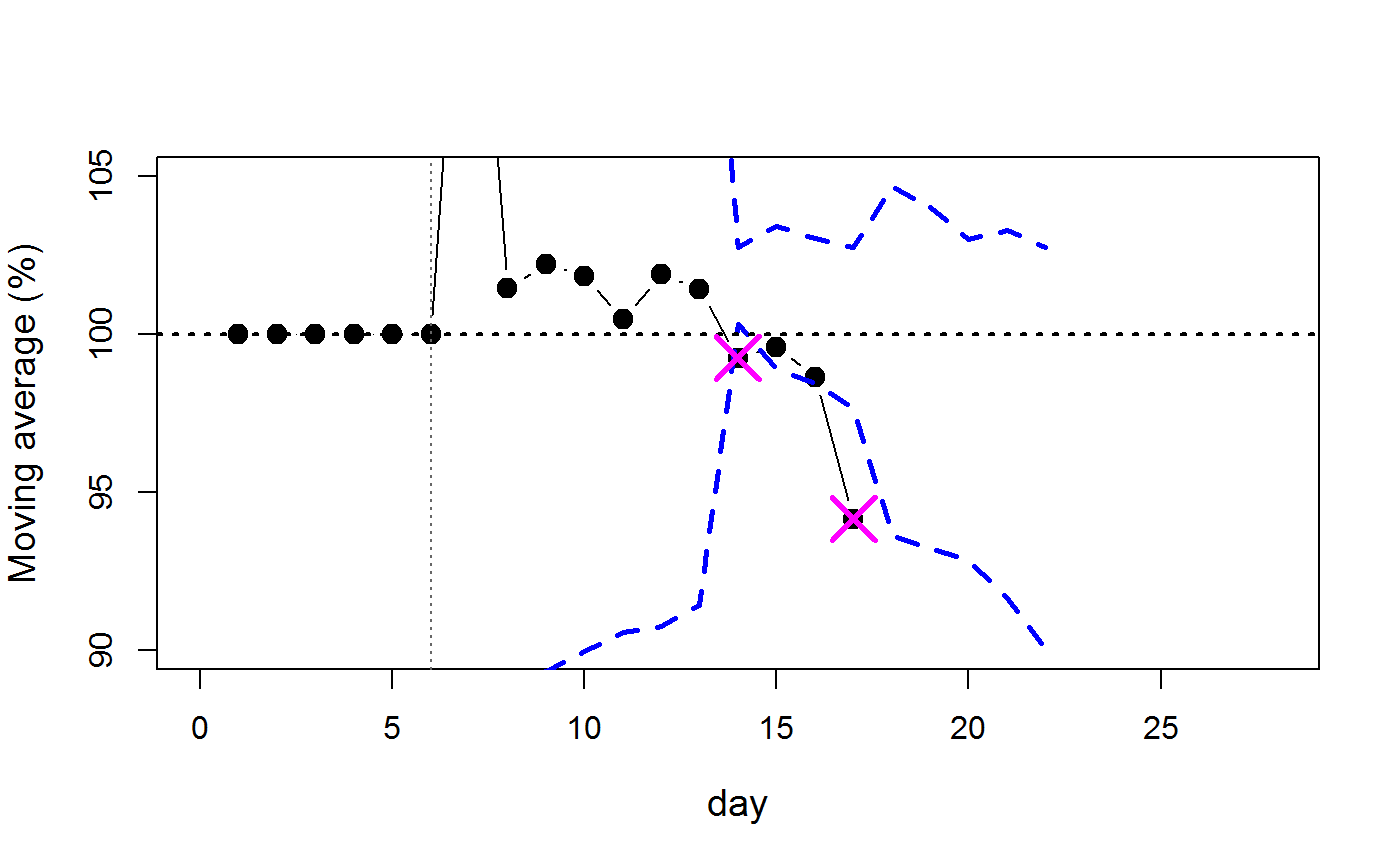
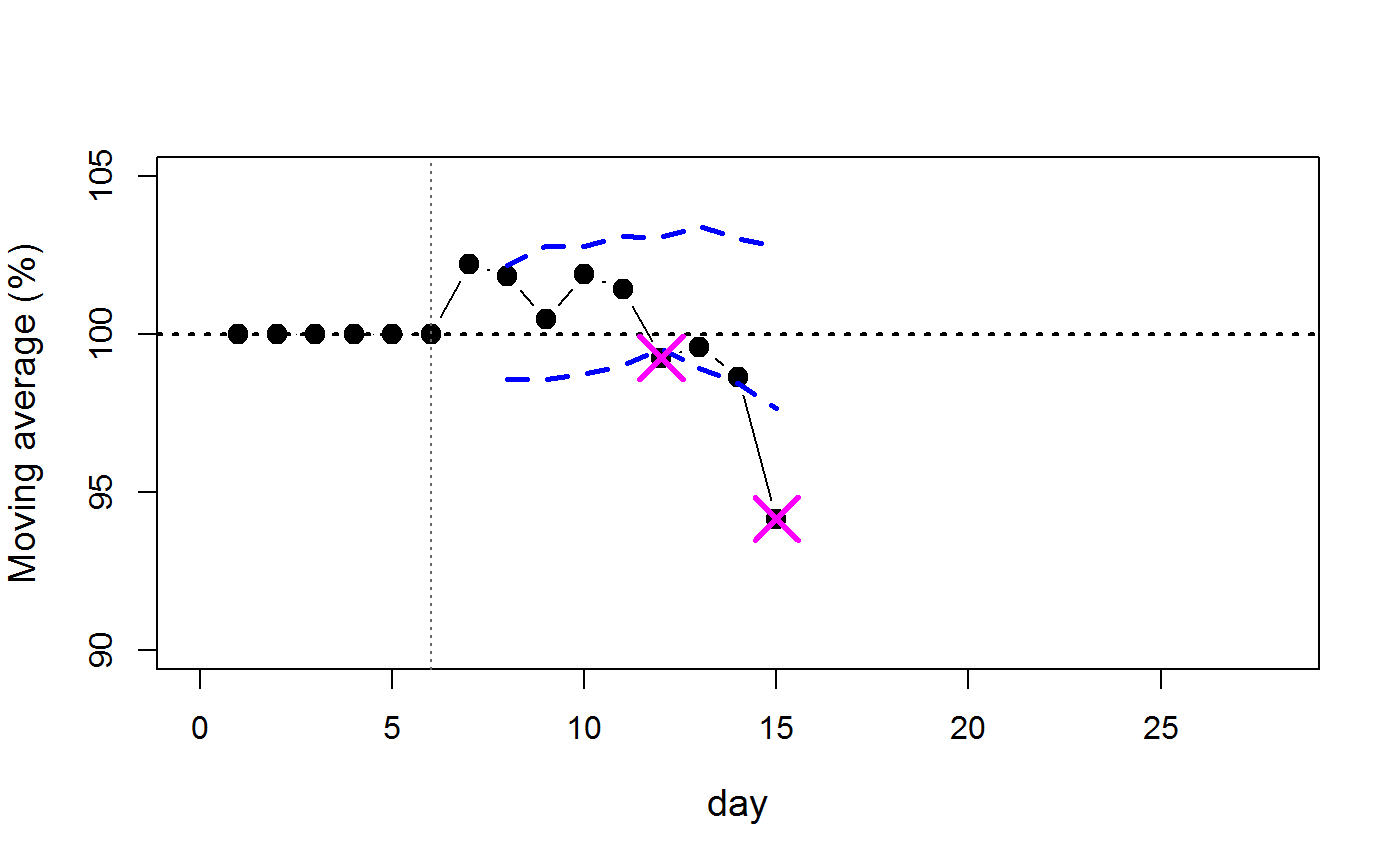
Revision of vignette examples

diff --git a/docs/articles/endpointR.html b/docs/articles/endpointR.html
@@ -174,26 +174,26 @@ epR(td = td, org = FALSE, wl = 6, SDwdth = 2, mad = FALSE, ltype = "b", dotcolor
 <a href="#working-example" class="anchor"></a>Working example</h2>
 <p>This example uses the internal <code>gliodat</code> data set.</p>
 <div class="sourceCode"><pre class="sourceCode r"><code class="sourceCode r"><span class="kw"><a href="https://www.rdocumentation.org/packages/base/topics/library">library</a></span>(endpointR)
-
-td        &lt;-<span class="st"> </span><span class="kw"><a href="https://www.rdocumentation.org/packages/base/topics/numeric">as.numeric</a></span>(gliodat[<span class="dv">1</span>,])
-
-danger    &lt;-<span class="st"> </span><span class="kw"><a href="../reference/epR.html">epR</a></span>(<span class="dt">td        =</span> td,
-                 <span class="dt">org       =</span> <span class="ot">FALSE</span>,
-                 <span class="dt">wl        =</span> <span class="dv">6</span>,
-                 <span class="dt">SDwdth    =</span> <span class="dv">2</span>,
-                 <span class="dt">mad       =</span> <span class="ot">FALSE</span>,
-                 <span class="dt">cex       =</span> <span class="fl">1.4</span>,
-                 <span class="dt">cex.lab   =</span> <span class="fl">1.2</span>,
-                 <span class="dt">blind     =</span> <span class="ot">FALSE</span>,
-                 <span class="dt">ignupr    =</span> <span class="ot">FALSE</span>,
-                 <span class="dt">ylim      =</span> <span class="kw"><a href="https://www.rdocumentation.org/packages/base/topics/c">c</a></span>(<span class="dv">90</span>,<span class="dv">105</span>), 
-                 <span class="dt">xlim      =</span> <span class="kw"><a href="https://www.rdocumentation.org/packages/base/topics/c">c</a></span>(<span class="dv">0</span>,<span class="dv">28</span>),
-                 <span class="dt">xlab      =</span> <span class="st">"day"</span>)</code></pre></div>
+a      &lt;-<span class="st"> </span><span class="dv">1</span>
+td     &lt;-<span class="st"> </span><span class="kw"><a href="../reference/ep_select.html">ep_select</a></span>(gliodat, a) 
+danger &lt;-<span class="st"> </span><span class="kw"><a href="../reference/epR.html">epR</a></span>(<span class="dt">td        =</span> td,
+              <span class="dt">org       =</span> <span class="ot">FALSE</span>,
+              <span class="dt">wl        =</span> <span class="dv">6</span>,
+              <span class="dt">SDwdth    =</span> <span class="dv">2</span>,
+              <span class="dt">mad       =</span> <span class="ot">FALSE</span>,
+              <span class="dt">cex       =</span> <span class="fl">1.4</span>,
+              <span class="dt">cex.lab   =</span> <span class="fl">1.2</span>,
+              <span class="dt">blind     =</span> <span class="ot">FALSE</span>,
+              <span class="dt">ignupr    =</span> <span class="ot">FALSE</span>,
+              <span class="dt">ylim      =</span> <span class="kw"><a href="https://www.rdocumentation.org/packages/base/topics/c">c</a></span>(<span class="dv">90</span>,<span class="dv">105</span>), 
+              <span class="dt">xlim      =</span> <span class="kw"><a href="https://www.rdocumentation.org/packages/base/topics/c">c</a></span>(<span class="dv">0</span>,<span class="dv">28</span>),
+              <span class="dt">xlab      =</span> <span class="st">"day"</span>)</code></pre></div>
 <p><img src="endpointR_files/figure-html/setup-1.png" width="700"></p>
 <div class="sourceCode"><pre class="sourceCode r"><code class="sourceCode r">danger
 <span class="co">#&gt;    n timepoint value where</span>
-<span class="co">#&gt; 1 31        14 99.25 lower</span>
-<span class="co">#&gt; 2 31        17 94.14 lower</span></code></pre></div>
+<span class="co">#&gt; 1 15        12 99.25 lower</span>
+<span class="co">#&gt; 2 15        15 94.14 lower</span></code></pre></div>
+<p>The output shows that the sample length has n=15 data points (not counting NAs). At timepoint (days) 12 there is a potential threat at a body weight change value of 99.25 %. However, this is probably a false alarm. The threshold violation in day 15 is certainly worse with a value of 94.15 %.</p>
 </div>
   </div>
 

diff --git a/docs/index.html b/docs/index.html
@@ -100,17 +100,18 @@ devtools<span class="op">::</span><span class="kw"><a href="https://www.rdocumen
 <a href="#example" class="anchor"></a>Example</h2>
 <p>This is a basic example uses the internal Glioma data from Helgers &amp; Talbot et al 2019 to indicate potential endpoints for individual animals. The input variables are raw body weight data.</p>
 <div class="sourceCode"><pre class="sourceCode r"><code class="sourceCode r"><span class="kw"><a href="https://www.rdocumentation.org/packages/base/topics/library">library</a></span>(endpointR)
-td        &lt;-<span class="st"> </span><span class="kw"><a href="https://www.rdocumentation.org/packages/base/topics/numeric">as.numeric</a></span>(gliodat[<span class="dv">1</span>,])
-danger    &lt;-<span class="st"> </span><span class="kw"><a href="reference/epR.html">epR</a></span>(<span class="dt">td        =</span> td,
-                 <span class="dt">org       =</span> <span class="ot">FALSE</span>,
-                 <span class="dt">wl        =</span> <span class="dv">6</span>,
-                 <span class="dt">SDwdth    =</span> <span class="dv">2</span>,
-                 <span class="dt">mad       =</span> <span class="ot">FALSE</span>,
-                 <span class="dt">blind     =</span> <span class="ot">TRUE</span>)
+a      &lt;-<span class="st"> </span><span class="dv">1</span>
+td     &lt;-<span class="st"> </span><span class="kw"><a href="reference/ep_select.html">ep_select</a></span>(gliodat, a) 
+danger &lt;-<span class="st"> </span><span class="kw"><a href="reference/epR.html">epR</a></span>(<span class="dt">td        =</span> td,
+              <span class="dt">org       =</span> <span class="ot">FALSE</span>,
+              <span class="dt">wl        =</span> <span class="dv">6</span>,
+              <span class="dt">SDwdth    =</span> <span class="dv">2</span>,
+              <span class="dt">mad       =</span> <span class="ot">FALSE</span>,
+              <span class="dt">blind     =</span> <span class="ot">TRUE</span>)
 danger
 <span class="co">#&gt;    n timepoint value where</span>
-<span class="co">#&gt; 1 31        14 99.25 lower</span>
-<span class="co">#&gt; 2 31        17 94.14 lower</span></code></pre></div>
+<span class="co">#&gt; 1 15        12 99.25 lower</span>
+<span class="co">#&gt; 2 15        15 94.14 lower</span></code></pre></div>
 </div>
 </div>
   </div>

diff --git a/README.md b/README.md
@@ -28,15 +28,16 @@ This is a basic example uses the internal Glioma data from Helgers & Talbot et a
 
 ``` r
 library(endpointR)
-td        <- as.numeric(gliodat[1,])
-danger    <- epR(td        = td,
-                 org       = FALSE,
-                 wl        = 6,
-                 SDwdth    = 2,
-                 mad       = FALSE,
-                 blind     = TRUE)
+a      <- 1
+td     <- ep_select(gliodat, a) 
+danger <- epR(td        = td,
+              org       = FALSE,
+              wl        = 6,
+              SDwdth    = 2,
+              mad       = FALSE,
+              blind     = TRUE)
 danger
 #>    n timepoint value where
-#> 1 31        14 99.25 lower
-#> 2 31        17 94.14 lower
+#> 1 15        12 99.25 lower
+#> 2 15        15 94.14 lower
 ```
